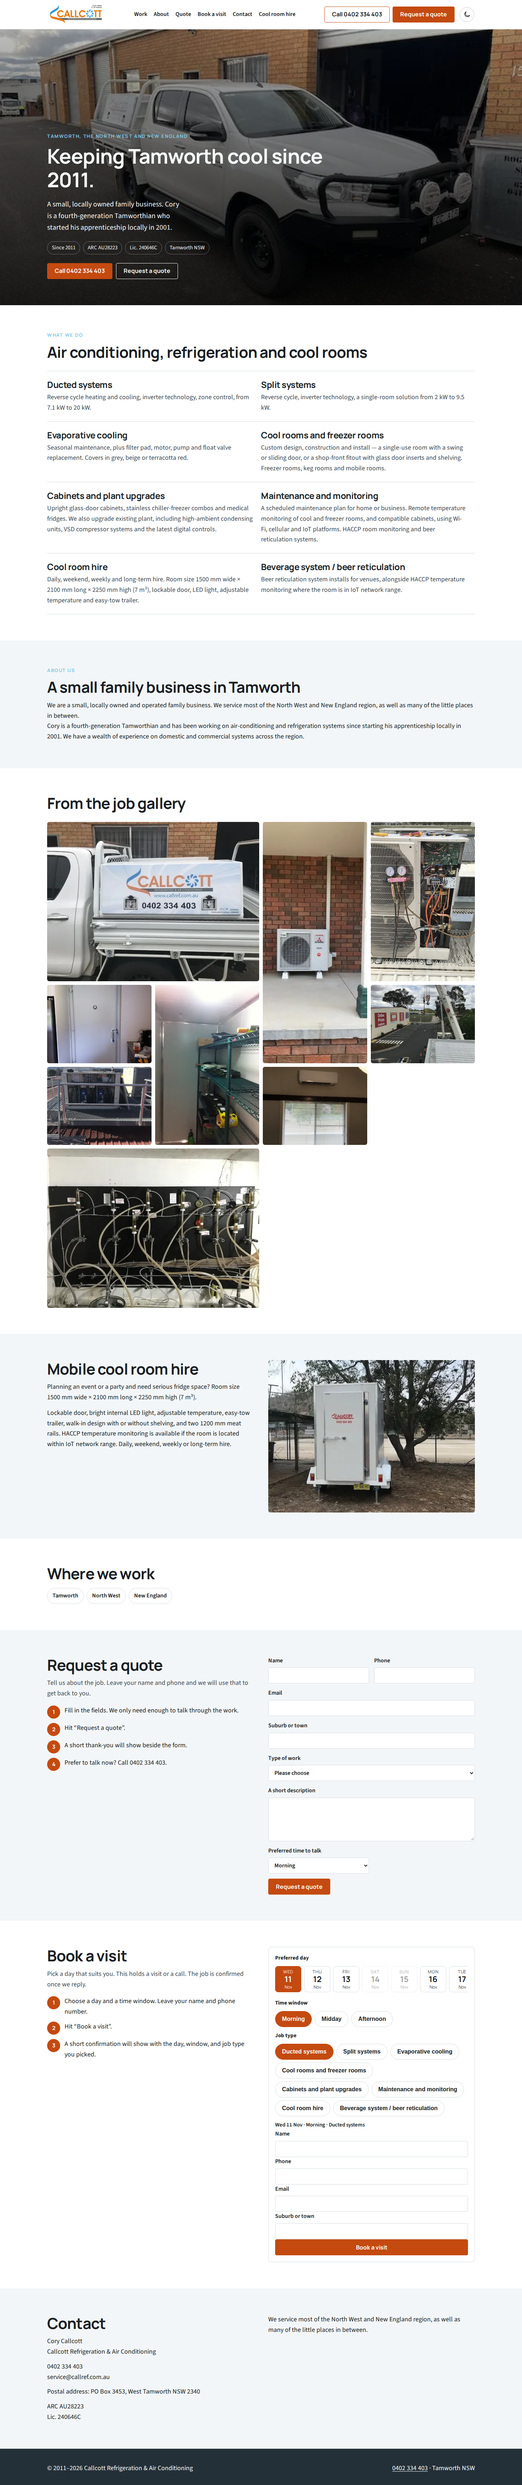
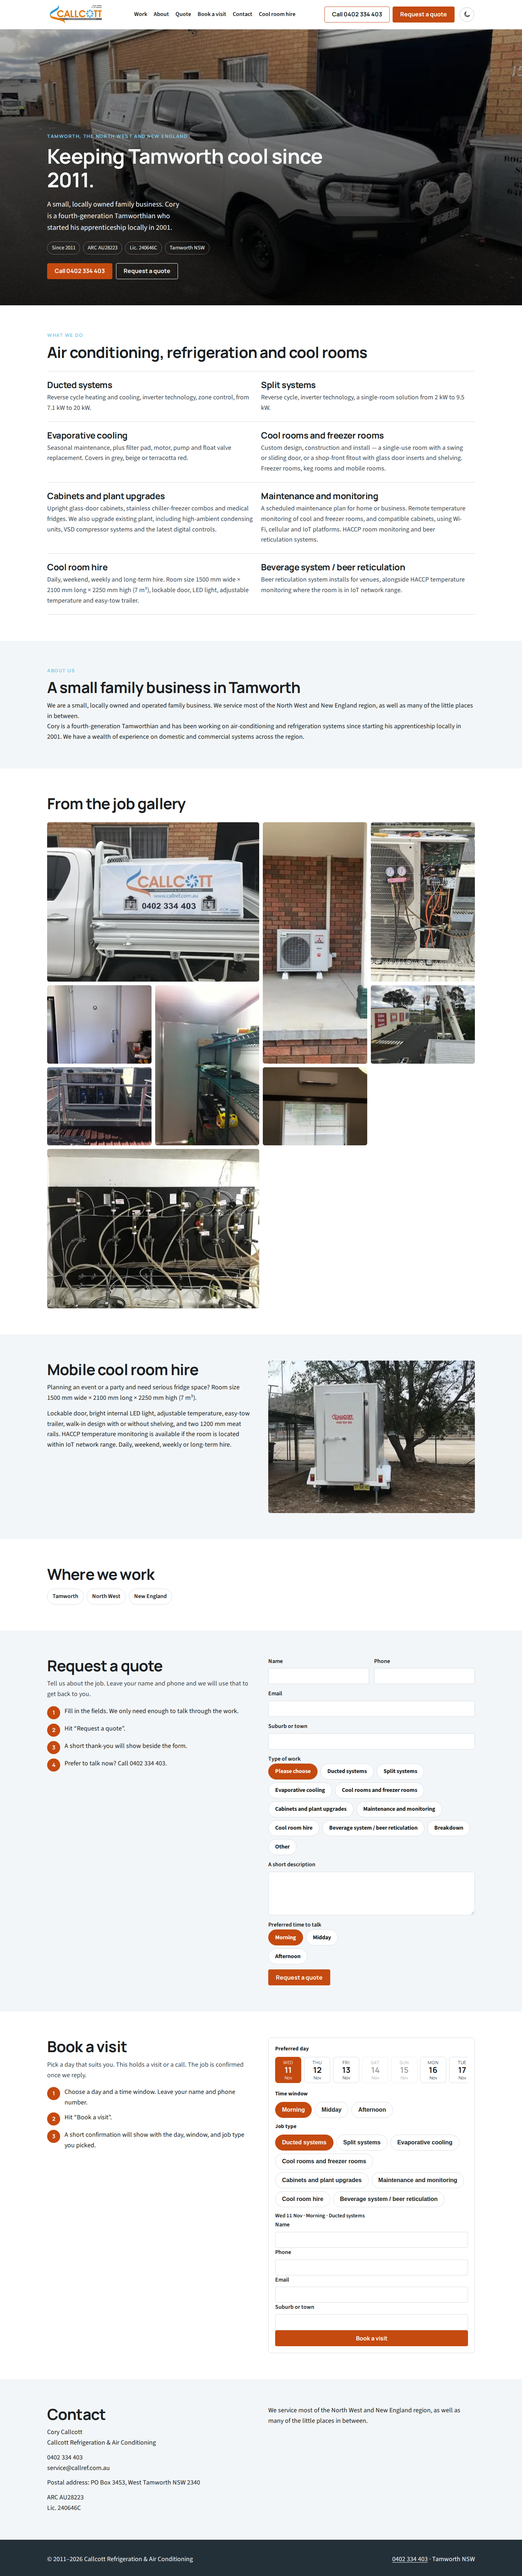
Pre-Audit: titles, README, radio pills, drop public BRIEF.
Leave brand accent at 4.85:1 white-on-orange; quote selects become pill radios.

diff --git a/index.html b/index.html
@@ -4,8 +4,11 @@
 <meta charset="UTF-8">
 <meta name="viewport" content="width=device-width, initial-scale=1">
 <meta name="robots" content="noindex">
-<title>Air conditioning and refrigeration, Tamworth | Callcott</title>
-<meta name="description" content="Air conditioning, refrigeration and cool room hire in Tamworth, the North West and New England. Call 0402 334 403.">
+<title>Callcott Refrigeration — Home</title>
+<meta name="description" content="Website preview.">
+<meta property="og:title" content="Callcott Refrigeration — Home">
+<meta property="og:description" content="Website preview.">
+<meta name="twitter:description" content="Website preview.">
 <link rel="stylesheet" href="styles.css">
 <script>
 (function(){
@@ -161,29 +164,31 @@
       <label>Phone <input type="tel" name="phone" autocomplete="tel"></label>
       <label class="full">Email <input type="email" name="email" autocomplete="email"></label>
       <label class="full">Suburb or town <input type="text" name="suburb"></label>
-      <label class="full">Type of work
-        <select name="type">
-          <option value="">Please choose</option>
-          <option>Ducted systems</option>
-          <option>Split systems</option>
-          <option>Evaporative cooling</option>
-          <option>Cool rooms and freezer rooms</option>
-          <option>Cabinets and plant upgrades</option>
-          <option>Maintenance and monitoring</option>
-          <option>Cool room hire</option>
-          <option>Beverage system / beer reticulation</option>
-          <option>Breakdown</option>
-          <option>Other</option>
-        </select>
-      </label>
+      <fieldset class="full pill-fieldset">
+        <legend>Type of work</legend>
+        <div class="pill-radios" role="radiogroup" aria-label="Type of work">
+          <label class="pill"><input type="radio" name="type" value="" checked> Please choose</label>
+          <label class="pill"><input type="radio" name="type" value="Ducted systems"> Ducted systems</label>
+          <label class="pill"><input type="radio" name="type" value="Split systems"> Split systems</label>
+          <label class="pill"><input type="radio" name="type" value="Evaporative cooling"> Evaporative cooling</label>
+          <label class="pill"><input type="radio" name="type" value="Cool rooms and freezer rooms"> Cool rooms and freezer rooms</label>
+          <label class="pill"><input type="radio" name="type" value="Cabinets and plant upgrades"> Cabinets and plant upgrades</label>
+          <label class="pill"><input type="radio" name="type" value="Maintenance and monitoring"> Maintenance and monitoring</label>
+          <label class="pill"><input type="radio" name="type" value="Cool room hire"> Cool room hire</label>
+          <label class="pill"><input type="radio" name="type" value="Beverage system / beer reticulation"> Beverage system / beer reticulation</label>
+          <label class="pill"><input type="radio" name="type" value="Breakdown"> Breakdown</label>
+          <label class="pill"><input type="radio" name="type" value="Other"> Other</label>
+        </div>
+      </fieldset>
       <label class="full">A short description <textarea name="details"></textarea></label>
-      <label>Preferred time to talk
-        <select name="when">
-          <option>Morning</option>
-          <option>Midday</option>
-          <option>Afternoon</option>
-        </select>
-      </label>
+      <fieldset class="pill-fieldset">
+        <legend>Preferred time to talk</legend>
+        <div class="pill-radios" role="radiogroup" aria-label="Preferred time to talk">
+          <label class="pill"><input type="radio" name="when" value="Morning" checked> Morning</label>
+          <label class="pill"><input type="radio" name="when" value="Midday"> Midday</label>
+          <label class="pill"><input type="radio" name="when" value="Afternoon"> Afternoon</label>
+        </div>
+      </fieldset>
       <div class="submit">
         <button class="btn btn-accent" type="submit">Request a quote</button>
         <p class="thanks" id="quote-success">Thanks. Your quote request is saved.</p>

diff --git a/styles.css b/styles.css
@@ -194,6 +194,19 @@ form .submit{grid-column:1 / -1}
   min-height:44px;padding:0 18px;border:1.5px solid var(--line);background:var(--chip-bg);
   border-radius:999px;font-weight:700;font-size:16px;cursor:pointer;color:var(--ink);
 }
+.pill-fieldset{border:0;padding:0;margin:0;min-width:0;display:flex;flex-direction:column;gap:6px}
+.pill-fieldset legend{font-weight:600;font-size:16px;padding:0}
+.pill-radios{display:flex;flex-wrap:wrap;gap:8px}
+.pill-radios .pill{
+  display:inline-flex;align-items:center;justify-content:center;
+  position:relative;margin:0;font-weight:700;
+}
+.pill-radios .pill input{
+  position:absolute;inset:0;margin:0;opacity:0;cursor:pointer;
+  width:100%;height:100%;min-height:44px;appearance:none;background:transparent;border:0;padding:0;
+}
+.pill-radios .pill:has(input:checked){border-color:var(--accent);background:var(--accent);color:var(--accent-ink)}
+.pill-radios .pill:focus-within{outline:3px solid var(--ink);outline-offset:3px}
 .summary{margin:12px 0 0;font-size:15px;font-weight:600;min-height:1.5em}
 .book-form .btn-accent{width:100%}
 .thanks,.success{display:none;grid-column:1 / -1;padding:16px;background:var(--wash);border-radius:6px;font-weight:600}

diff --git a/README.md b/README.md
@@ -1,5 +1,1 @@
-# callcott-refrigeration preview
-
-Spec preview by Crom Services. Not the live site. Not indexed.
-
-GitHub Pages from `main` `/`. Keep `robots.txt` disallow-all and the noindex meta.
+Website preview.
